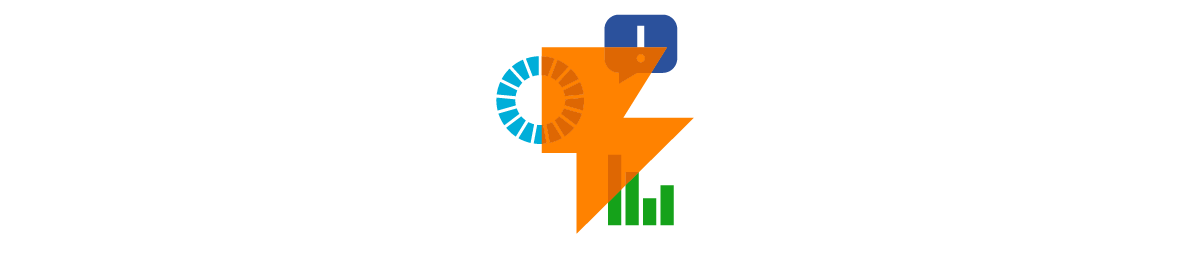
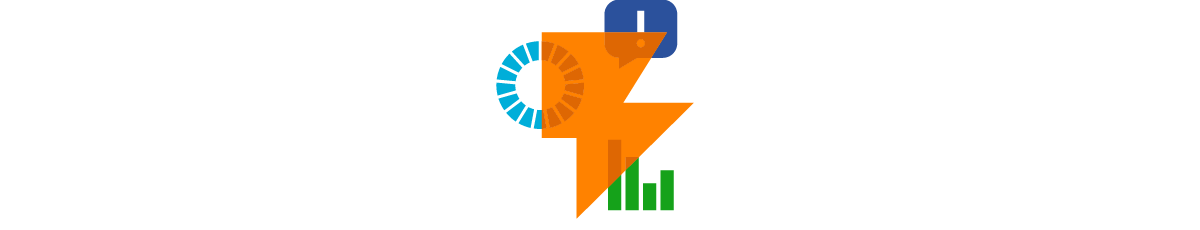
adjust home distances

diff --git a/app/containers/HomePage/index.js b/app/containers/HomePage/index.js
@@ -49,10 +49,6 @@ const GraphicHomeWrapper = styled.div`
 const GraphicHome = styled(NormalImg)`
   width: 100%;
   max-width: 1200px;
-  padding-top: ${(props) => props.hasBrand
-    ? props.theme.sizes.header.banner.height
-    : 0
-  }px;
 `;
 
 const SectionTop = styled.div`
@@ -66,7 +62,7 @@ const SectionTop = styled.div`
 const SectionWrapper = styled.div`
   display: ${(props) => props.hasBrand ? 'static' : 'table-cell'};
   vertical-align: ${(props) => props.hasBrand ? 'baseline' : 'middle'};
-  padding-bottom: 2em;
+  padding-bottom: 74px;
 `;
 
 const TopActions = styled.div`
@@ -76,6 +72,7 @@ const Title = styled.h1`
   color:${palette('headerBrand', 0)};
   font-family: ${(props) => props.theme.fonts.title};
   font-size: ${(props) => props.theme.sizes.home.text.title};
+  margin-top: 46px;
 `;
 
 const Claim = styled.p`
